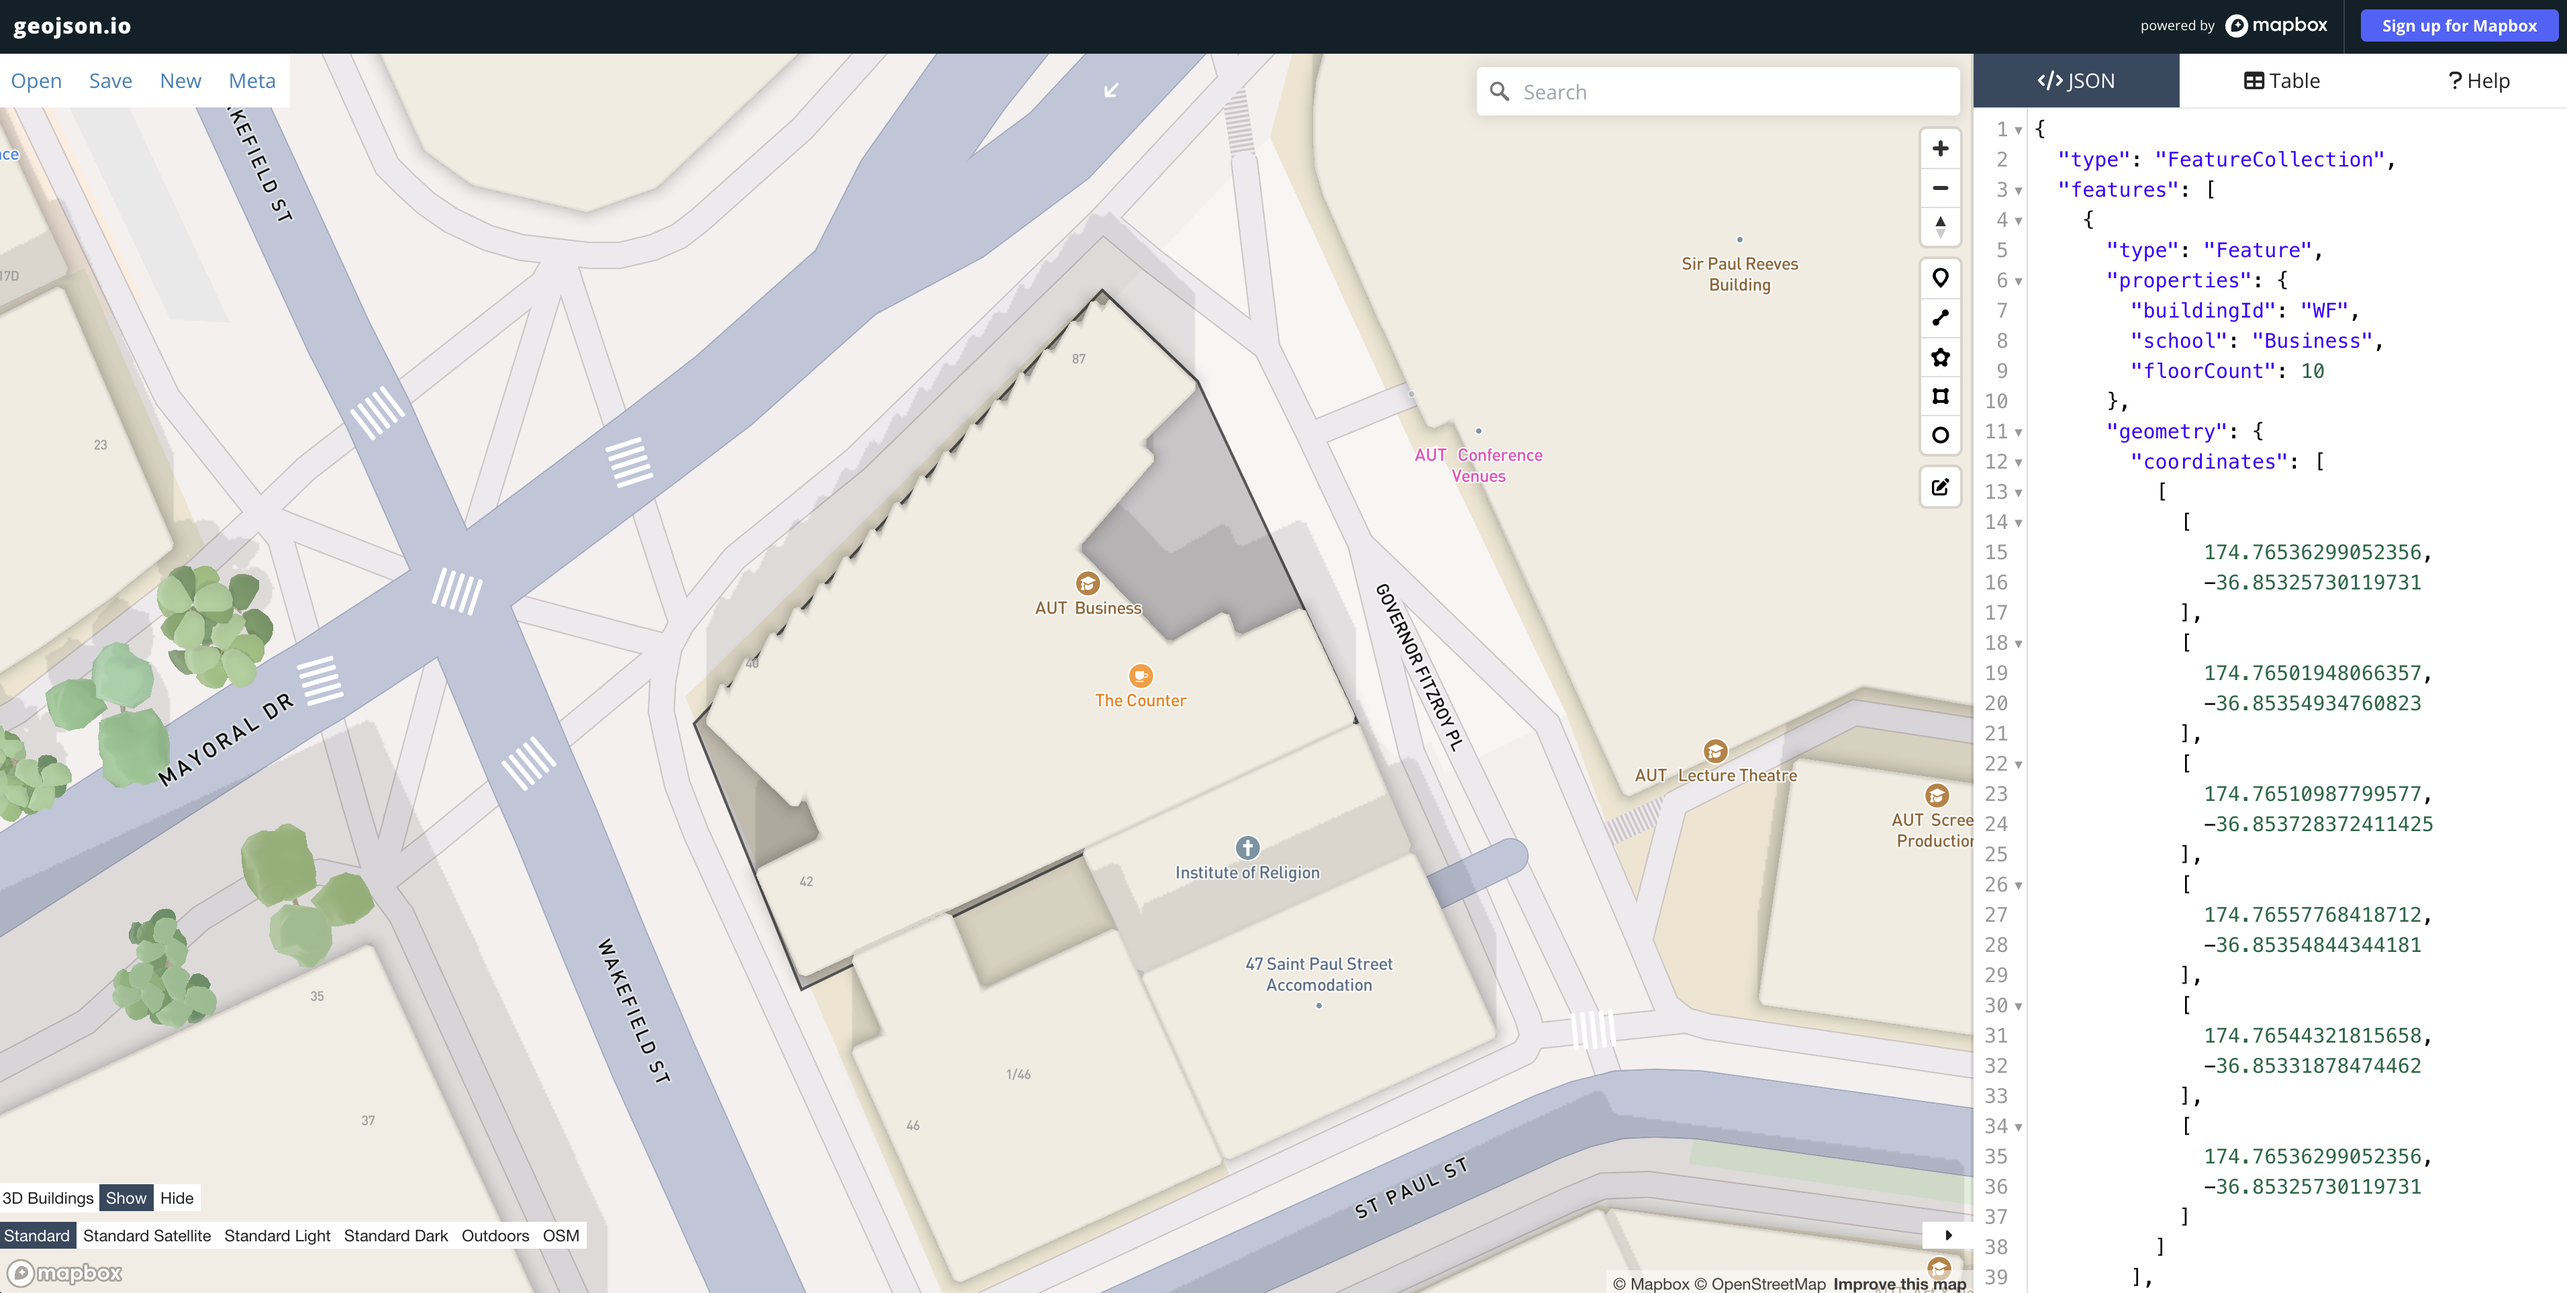
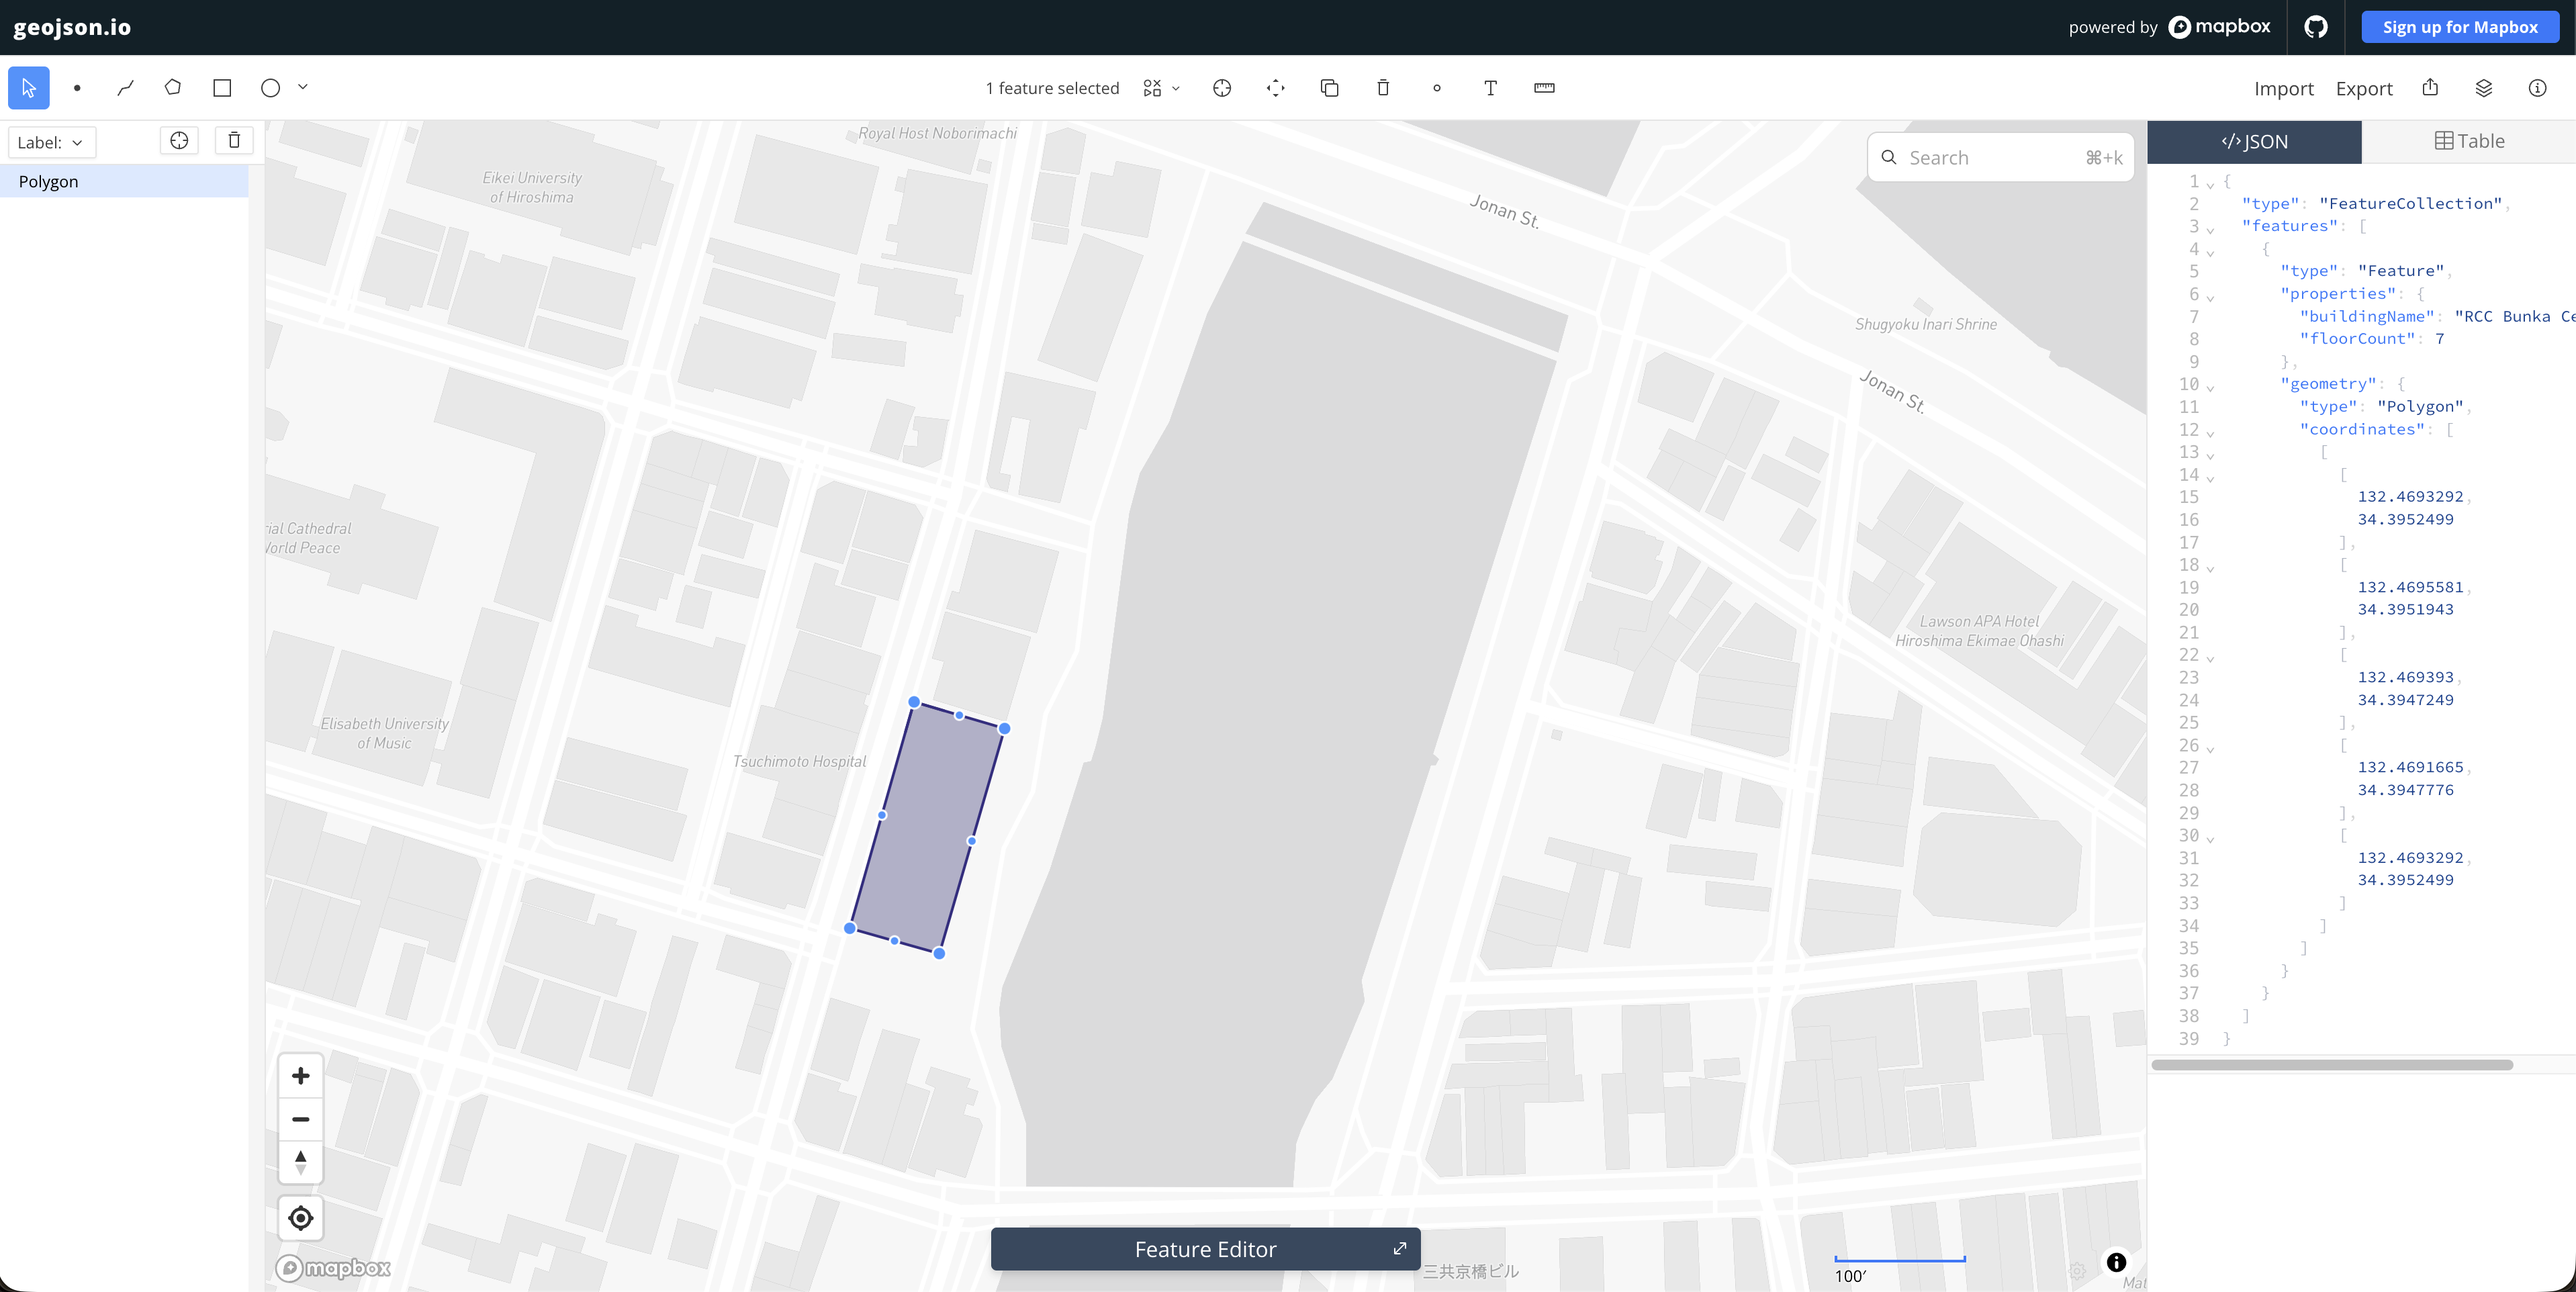
workshop: retarget to the RCC Bunka Center, Hiroshima
Generated with set_location.py; the derived byte counts, WKT, ring
points and size ratio are recomputed rather than hand-edited.

Verified by executing notebook 03 against Overture: the building is
found and selected as the maximum-intersection row.

diff --git a/src/02_the-well-knowns.py b/src/02_the-well-knowns.py
@@ -79,7 +79,7 @@
 # 00 00 00 00 00 00 00 00  00 00 00 00 00 00 00 00  # Point 4: (0.0, 0.0)
 # ```
 #
-# Now in this trivial example, the representation is not actually more compact than the WKT representation. With real-world coordinate values like `174.76536299052356`, the WKB representation ends up about 2.2x smaller than the WKT string representation before compression. Note that ratio depends on how much precision the coordinates carry: WKB always spends 16 bytes per point no matter what, while WKT spends roughly one byte per digit, so coordinates rounded to fewer decimal places narrow the gap considerably (of course, if you are asking "why 64-bit double floats instead of fixed precision values": don't get me started, I don't understand it either--I can only think early GIS software used floats and the inertia continues to this day).
+# Now in this trivial example, the representation is not actually more compact than the WKT representation. With real-world coordinate values like `132.4693292`, the WKB representation ends up about 1.4x smaller than the WKT string representation before compression. Note that ratio depends on how much precision the coordinates carry: WKB always spends 16 bytes per point no matter what, while WKT spends roughly one byte per digit, so coordinates rounded to fewer decimal places narrow the gap considerably (of course, if you are asking "why 64-bit double floats instead of fixed precision values": don't get me started, I don't understand it either--I can only think early GIS software used floats and the inertia continues to this day).
 #
 # But the data size is not the real benefit of WKB: it's actually the parsing speed that really matters. It is much more efficient to take these binary values and unpack them directly into numeric types without string-to-float conversion, handling delimiters, etc. At scale with millions of geometries this makes a massive difference.
 #
@@ -108,12 +108,11 @@ from shapely import from_wkb as shapely_from_wkb, wkt as shapely_wkt
 #| scrub-note: cell0 | geom_str = """PASTE YOUR GEOJSON GEOMETRY HERE"""
 geom_str = """{
     "coordinates": [[
-        [174.76536299052356, -36.85325730119731],
-        [174.76501948066357, -36.85354934760823],
-        [174.76510987799577, -36.853728372411425],
-        [174.76557768418712, -36.85354844344181],
-        [174.76544321815658, -36.85331878474462],
-        [174.76536299052356, -36.85325730119731]
+        [132.4693292, 34.3952499],
+        [132.4695581, 34.3951943],
+        [132.469393, 34.3947249],
+        [132.4691665, 34.3947776],
+        [132.4693292, 34.3952499]
     ]],
     "type": "Polygon"
 }"""
@@ -123,7 +122,7 @@ geom_str = """{
 
 # %%
 #| scrub-note: cell1 | wkt = 'WRITE YOUR WKT POLYGON HERE'
-wkt = 'POLYGON((174.76536299052356 -36.85325730119731, 174.76501948066357 -36.85354934760823, 174.76510987799577 -36.853728372411425, 174.76557768418712 -36.85354844344181, 174.76544321815658 -36.85331878474462, 174.76536299052356 -36.85325730119731))'
+wkt = 'POLYGON((132.4693292 34.3952499, 132.4695581 34.3951943, 132.469393 34.3947249, 132.4691665 34.3947776, 132.4693292 34.3952499))'
 wkt
 
 # %% [markdown]
@@ -153,12 +152,11 @@ endianness = 1
 geom_type = 3
 ring_count = 1
 ring_points = [
-    (174.76536299052356, -36.85325730119731),
-    (174.76501948066357, -36.85354934760823),
-    (174.76510987799577, -36.853728372411425),
-    (174.76557768418712, -36.85354844344181),
-    (174.76544321815658, -36.85331878474462),
-    (174.76536299052356, -36.85325730119731),
+    (132.4693292, 34.3952499),
+    (132.4695581, 34.3951943),
+    (132.469393, 34.3947249),
+    (132.4691665, 34.3947776),
+    (132.4693292, 34.3952499),
 ]
 
 # %% [markdown]

diff --git a/src/01_is-geojson-cloud-native.py b/src/01_is-geojson-cloud-native.py
@@ -66,42 +66,36 @@ geojson_str = """{
     {
       "type": "Feature",
       "properties": {
-        "buildingId": "WF",
-        "school": "Business",
-        "floorCount": 10
+        "buildingName": "RCC Bunka Center",
+        "floorCount": 7
       },
       "geometry": {
+        "type": "Polygon",
         "coordinates": [
           [
             [
-              174.76536299052356,
-              -36.85325730119731
+              132.4693292,
+              34.3952499
             ],
             [
-              174.76501948066357,
-              -36.85354934760823
+              132.4695581,
+              34.3951943
             ],
             [
-              174.76510987799577,
-              -36.853728372411425
+              132.469393,
+              34.3947249
             ],
             [
-              174.76557768418712,
-              -36.85354844344181
+              132.4691665,
+              34.3947776
             ],
             [
-              174.76544321815658,
-              -36.85331878474462
-            ],
-            [
-              174.76536299052356,
-              -36.85325730119731
+              132.4693292,
+              34.3952499
             ]
           ]
-        ],
-        "type": "Polygon"
-      },
-      "id": 0
+        ]
+      }
     }
   ]
 }"""
@@ -115,11 +109,11 @@ geojson
 # <!-- scrub-omit -->
 # ### A few things to notice
 #
-# This GeoJSON is not large. As a string it is only 910 bytes long. Cloud-native concerns don't even begin to come into play with this example, it's just not big enough for us to have to worry about read inefficiencies.
+# This GeoJSON is not large. As a string it is only 707 bytes long. Cloud-native concerns don't even begin to come into play with this example, it's just not big enough for us to have to worry about read inefficiencies.
 #
-# But notice the length of each point: a point coordinate pair like `[174.76510987799577,-36.853728372411425],` is 41 bytes, and that's removing all whitespace from consideration. Imagine I did a better job tracing the building, we could have 16 points instead of just 6. Or 49 if I had followed the zigzags. Or even more if I tried to follow the apparent radius of the building corner...
+# But notice the length of each point: a point coordinate pair like `[132.469393,34.3947249],` is 24 bytes, and that's removing all whitespace from consideration. Imagine I did a better job tracing the building, we could have 16 points instead of just 5. Or 49 if I had followed the zigzags. Or even more if I tried to follow the apparent radius of the building corner...
 #
-# Imagine then we extend this feature collection so it contains similar geometries for all buildings in Auckland. Or New Zealand's North Island. Or all of Oceania.
+# Imagine then we extend this feature collection so it contains similar geometries for all buildings in Hiroshima. Or Honshu. Or all of Japan.
 #
 # We start to see a potential problem...
 

diff --git a/src/03_reading-parquet-the-hard-way.py b/src/03_reading-parquet-the-hard-way.py
@@ -39,7 +39,7 @@
 #
 # ## The exercise
 #
-# To get a deeper understanding of parquet and how it works, we're going to examine the [Overture Maps Buildings dataset](https://docs.overturemaps.org/guides/buildings). We will find the geometry for the building we're in for this workshop, the AUT School of Business building.
+# To get a deeper understanding of parquet and how it works, we're going to examine the [Overture Maps Buildings dataset](https://docs.overturemaps.org/guides/buildings). We will find the geometry for the building we're in for this workshop, the RCC Bunka Center.
 #
 # This exercise is perhaps a bit contrived, because we'll start with a rough geometry for the building that we traced from aerial imagery in exercise 1, but the principles we'll be demonstrating are applicable generally for clients wanting to read from parquet, and will show how that process works in some detail. Key to the process will be a focus on using predicate pushdown with geometries, and how we can use less expensive bounding box operations to more efficiently eliminate chunks and records before turning to more expensive real-geometry comparisons.
 #
@@ -149,35 +149,31 @@ class BBox:
 
 # %%
 geom = json.loads("""{
+  "type": "Polygon",
   "coordinates": [
     [
       [
-        174.76536299052356,
-        -36.85325730119731
+        132.4693292,
+        34.3952499
       ],
       [
-        174.76501948066357,
-        -36.85354934760823
+        132.4695581,
+        34.3951943
       ],
       [
-        174.76510987799577,
-        -36.853728372411425
+        132.469393,
+        34.3947249
       ],
       [
-        174.76557768418712,
-        -36.85354844344181
+        132.4691665,
+        34.3947776
       ],
       [
-        174.76544321815658,
-        -36.85331878474462
-      ],
-      [
-        174.76536299052356,
-        -36.85325730119731
+        132.4693292,
+        34.3952499
       ]
     ]
-  ],
-  "type": "Polygon"
+  ]
 }""")
 geom
 
